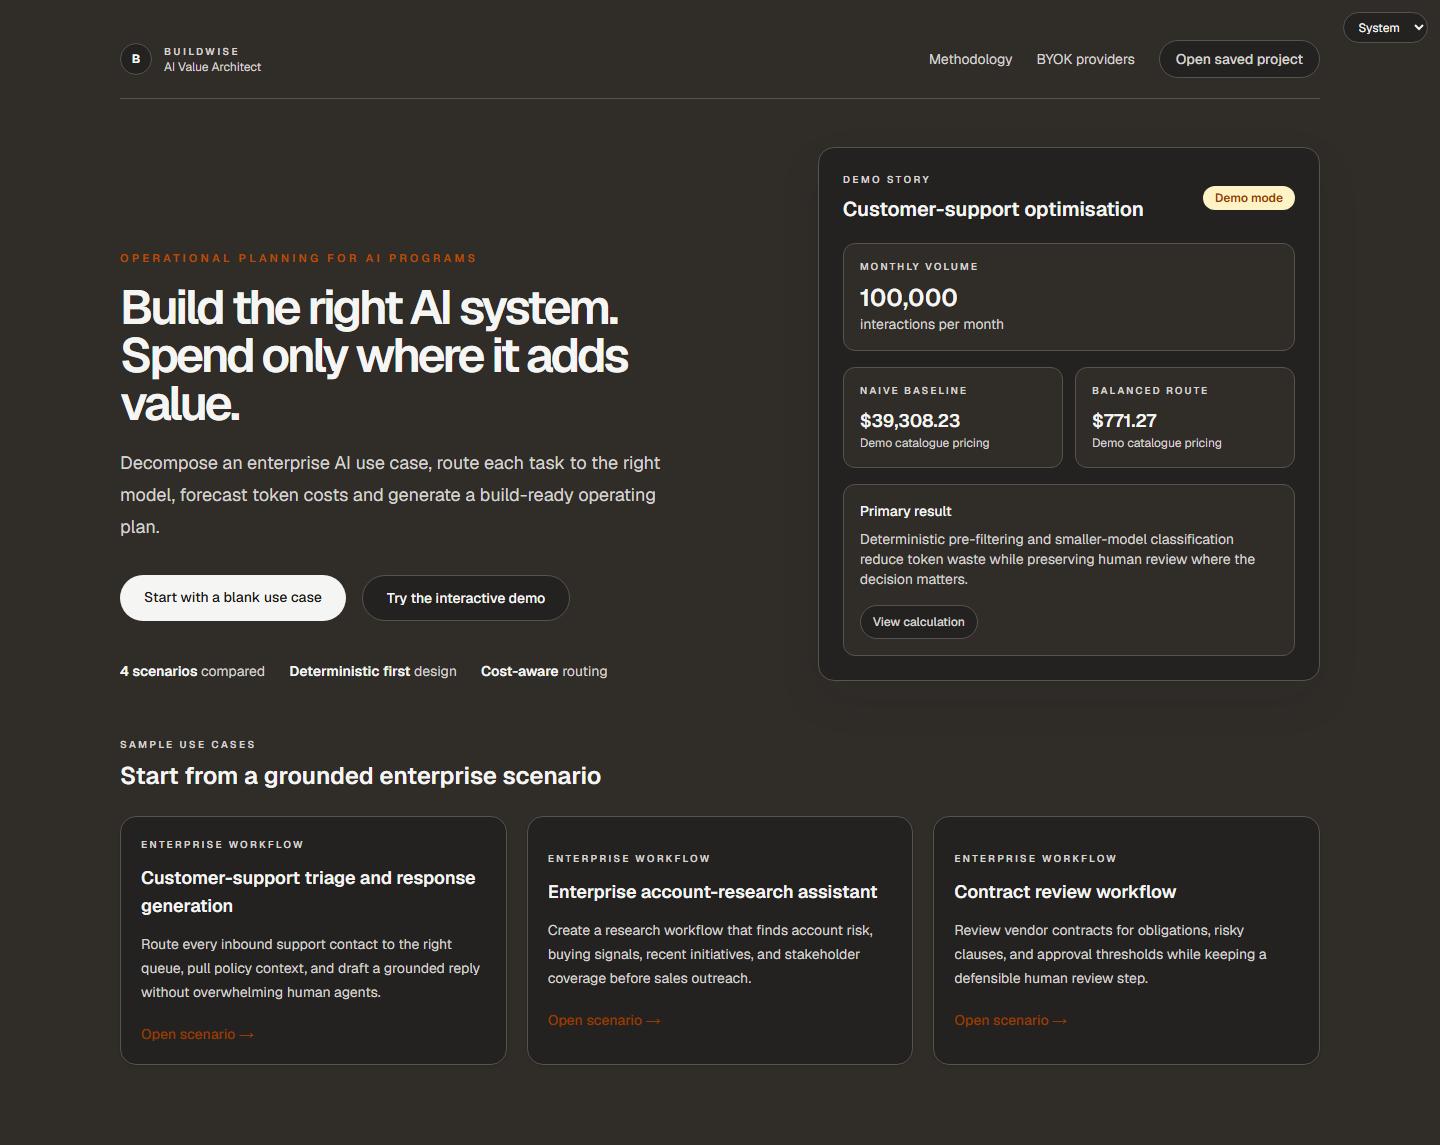
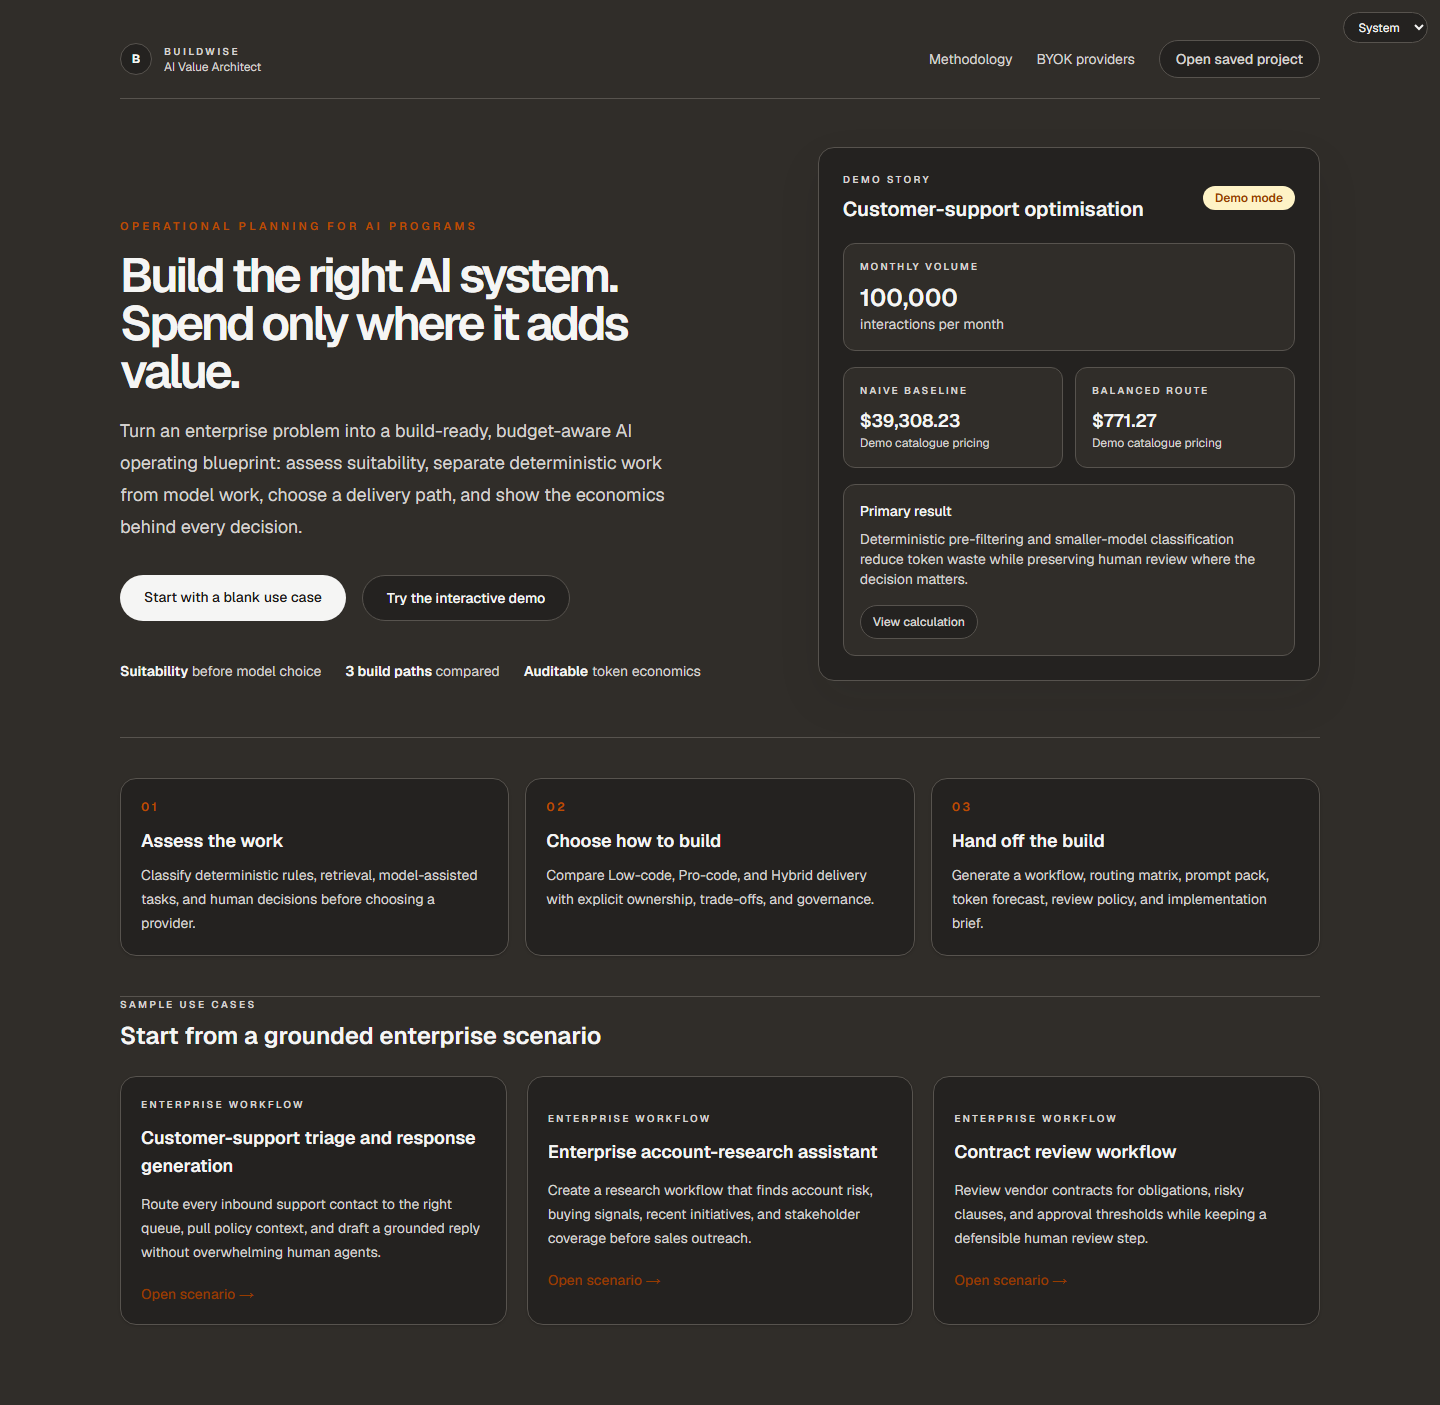
Finalize BuildWise verification metadata

diff --git a/tests/evidence.spec.ts b/tests/evidence.spec.ts
@@ -29,7 +29,7 @@ test.describe("BuildWise final evidence", () => {
     await capture("landing", "/");
     await expect(page.getByText("Customer-support optimisation", { exact: false }).first()).toBeVisible();
     await page.getByRole("button", { name: /try the interactive demo/i }).click();
-    await page.waitForURL(/\/workspace\/.+\/spine/);
+    await expect(page).toHaveURL(/\/workspace\/.+\/spine\/?/, { timeout: 30_000 });
     const projectPath = "/workspace/demo-support-project";
 
     await capture("workload-spine", `${projectPath}/spine`);

diff --git a/IMPLEMENTATION_REPORT.md b/IMPLEMENTATION_REPORT.md
@@ -16,7 +16,7 @@ The workspace now exposes AI suitability, selectable Low-code/Pro-code/Hybrid bu
 
 The recommended Balanced policy provides better cost-to-value than the baseline because it uses deterministic routing for high-confidence work, filtered retrieval, prompt caching, schema validation, and escalation only for ambiguous or consequential cases. Baseline applies an advanced model and broad context to every applicable task; Assurance adds stronger validation and review at higher cost; Economy is cheaper but accepts higher review coverage and less reasoning depth. The recommendation is policy-derived rather than a target saving.
 
-Implementation commit: `2527d8526d28bb9bfcddf9303465adcf0bad0a3c`. Pages workflow: `34451088353` (successful). The deployed public URL is `https://amit1858.github.io/buildwise-ai-value-architect/`.
+Implementation commit: `9f48947d304c1d1dc69316e59e0a04195499110b`. Pages workflow: `34451318084` (successful). The deployed public URL is `https://amit1858.github.io/buildwise-ai-value-architect/`.
 
 This report describes the current repository state. Demo figures, browser evidence, and the golden-value contract are generated from the same canonical calculation engine in `lib/buildwise.ts`.
 
@@ -83,7 +83,7 @@ npm run build:pages
 npx playwright test tests/evidence.spec.ts --reporter=line
 ```
 
-Results for deployed source commit `2527d8526d28bb9bfcddf9303465adcf0bad0a3c`: TypeScript passed; ESLint passed; 7 Vitest files / 21 tests passed; static Pages build passed; deployed Playwright evidence journey passed at 1440x1000, 1280x900, 834x1112, and 390x844.
+Results for deployed source commit `9f48947d304c1d1dc69316e59e0a04195499110b`: TypeScript passed; ESLint passed; 7 Vitest files / 21 tests passed; static Pages build passed; deployed Playwright evidence journey passed at 1440x1000, 1280x900, 834x1112, and 390x844.
 
 The release-candidate evidence manifest records full local URLs, themes, provenance modes, build identifiers, source commit, and capture source. It is packaged under `BuildWiseArtifacts/release-candidate/`.
 

diff --git a/PUBLIC_RELEASE_VERIFICATION.md b/PUBLIC_RELEASE_VERIFICATION.md
@@ -11,7 +11,7 @@
 | Public evidence package | `c5cb93865468010fba1c187c6ed86d4ef8d92055` | `34432491514` | Browser and security evidence |
 | Metadata/report update | `8b3263157f4d13afebcc71c230425e08ab860a6e` | `34432576577` | Deployment metadata |
 | Truthfulness correction | Pending | Pending | New provenance labels, cost formatting, and public controls |
-| Restoration tranche | `2527d8526d28bb9bfcddf9303465adcf0bad0a3c` | `34451088353` | Suitability, build paths, Build Kit routes, truthful public controls |
+| Restoration tranche | `9f48947d304c1d1dc69316e59e0a04195499110b` | `34451318084` | Suitability, build paths, Build Kit routes, truthful public controls |
 
 ## Release identity
 

diff --git a/deployment-evidence/DEPLOYMENT_EVIDENCE.md b/deployment-evidence/DEPLOYMENT_EVIDENCE.md
@@ -4,8 +4,8 @@
 
 - Repository: `amit1858/buildwise-ai-value-architect`
 - Public URL: https://amit1858.github.io/buildwise-ai-value-architect/
-- Source commit deployed: `2527d8526d28bb9bfcddf9303465adcf0bad0a3c`
-- Workflow run: [34451088353](https://github.com/amit1858/buildwise-ai-value-architect/actions/runs/34451088353)
+- Source commit deployed: `9f48947d304c1d1dc69316e59e0a04195499110b`
+- Workflow run: [34451318084](https://github.com/amit1858/buildwise-ai-value-architect/actions/runs/34451318084)
 - Workflow status: success
 - Pages publishing source: GitHub Actions
 
